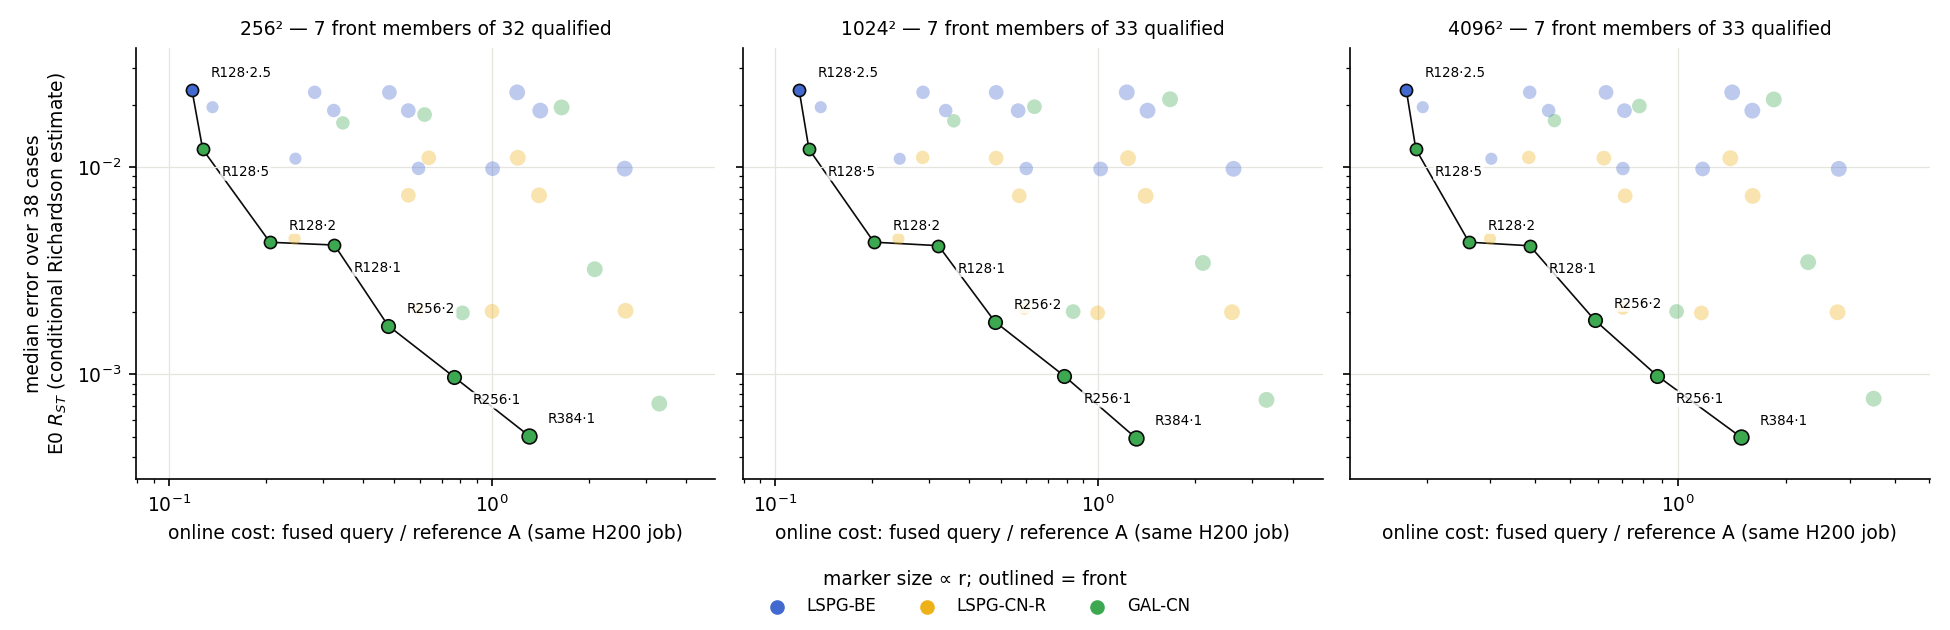
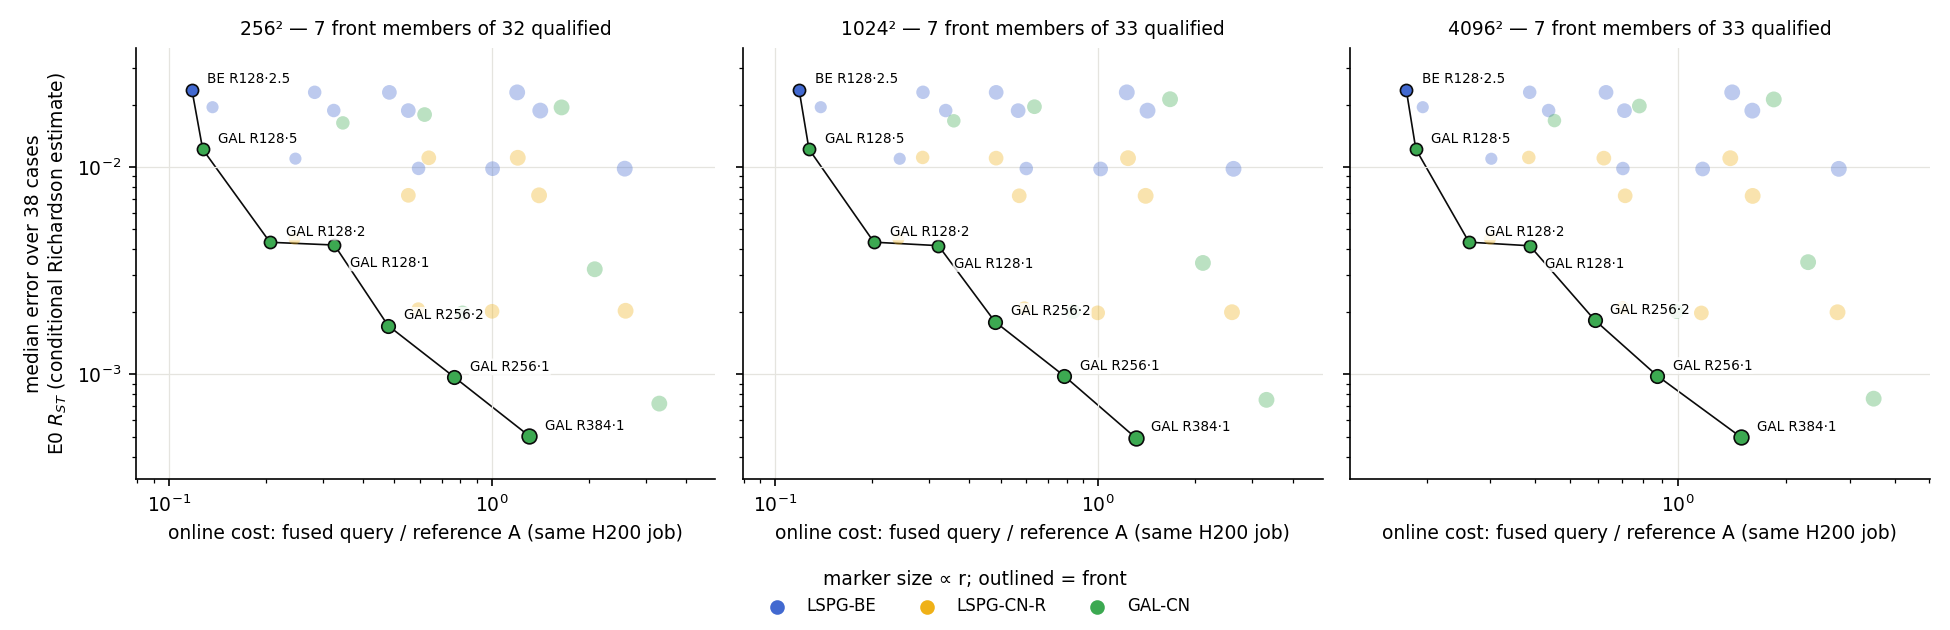
mirror of 4c9bb174b: jcp-qualify: report audit 5 fix (collision-free, scheme-tagged front labels)

diff --git a/experiments/jcp-qualify/make_report.py b/experiments/jcp-qualify/make_report.py
@@ -70,6 +70,7 @@ def plots():
             f = F.get(m, {})
             cand = f.get('candidates', {})
             front = set(f.get('fronts', {}).get(f'{stat}|c', []))
+            labels = []
             for k, v in cand.items():
                 c = parse(k)
                 key = c['form'] + '|' + c['scheme']
@@ -77,10 +78,21 @@ def plots():
                 ax.scatter(v['c'], v[stat], s=26 + 8 * (c['r'] // 128), color=COL[key], alpha=1 if on else .35,
                            edgecolor='#0b0b0b' if on else 'none', linewidth=.8, zorder=3 if on else 2)
                 if on:
-                    i_ = sorted(front, key=lambda kk: cand[kk]['c']).index(k)
-                    ax.annotate(f"R{c['r']}·{g(c['factor'])}", (v['c'], v[stat]), xytext=(9, 6) if i_ % 2 == 0 else (9, -13),
-                                textcoords='offset points', fontsize=6.5,
-                                bbox=dict(boxstyle='round,pad=0.1', fc='white', ec='none', alpha=.8))
+                    labels.append((v['c'], v[stat], f"{dict(BE='BE', CNR='CNR', CN='GAL')[c['scheme']]} R{c['r']}·{g(c['factor'])}"))
+            ax.set_xscale('log')
+            ax.set_yscale('log')
+            ax.margins(.12)
+            fig.canvas.draw()
+            placed = []                                   # greedy collision-free label placement (display pixels)
+            for x_, y_, t_ in sorted(labels):
+                px, py = ax.transData.transform((x_, y_))
+                for dx, dy in ((10, 4), (10, -14), (-78, 4), (-78, -14), (10, 20), (10, -30), (-78, 20), (-78, -30), (10, 36), (10, -46)):
+                    box = (px + dx, py + dy, px + dx + 66, py + dy + 12)
+                    if all(box[2] < b_[0] or box[0] > b_[2] or box[3] < b_[1] or box[1] > b_[3] for b_ in placed):
+                        break
+                placed.append(box)
+                ax.annotate(t_, (x_, y_), xytext=(dx * 0.75, dy * 0.75), textcoords='offset points', fontsize=6.5,
+                            bbox=dict(boxstyle='round,pad=0.1', fc='white', ec='none', alpha=.8))
             pts = sorted((cand[k]['c'], cand[k][stat]) for k in front)
             if pts:
                 ax.plot(*zip(*pts), color='#0b0b0b', lw=.8, zorder=1)

diff --git a/experiments/jcp-qualify/audits/codex-report-5.md b/experiments/jcp-qualify/audits/codex-report-5.md
@@ -1,0 +1,13 @@
+**NEEDS-FIX — plot readability remains.**
+
+| Previous must-fix | Verdict | Evidence |
+|---|---|---|
+| Dominance formula | RESOLVED | `report.md:269` retains the corrected tolerance and strict-improvement conditions. |
+| Stopping disclosure | RESOLVED | Report, analysis and EXPORT agree: three rounds, `round_limit_reached=true`, 16 exposed untested candidates, 146 open. |
+| Adjacent E0 caveats | RESOLVED | Conditional-reference caveats remain beside accuracy summaries, tables and plot axes. |
+| Plot readability | PARTIALLY | Median-front overlaps fixed. **Regression:** [front2d_worst.png](experiments/jcp-qualify/plots/front2d_worst.png), 4096² panel: GAL `R128·2` and BE `R128·1` annotations overlap. Separate them. |
+| Glossary/LaTeX | RESOLVED | Definitions and corrected LaTeX remain; no substantive new gap or Mermaid problem found. |
+
+Inspected all eight PNGs. **329 result rows and 16 job rows match source JSONs**; stopping fields and frozen FRONT checksum agree. No additional untraceable empirical number or conflation of numerical qualification, descriptive role and front membership found.
+
+No files changed; no GPU or cluster work.
